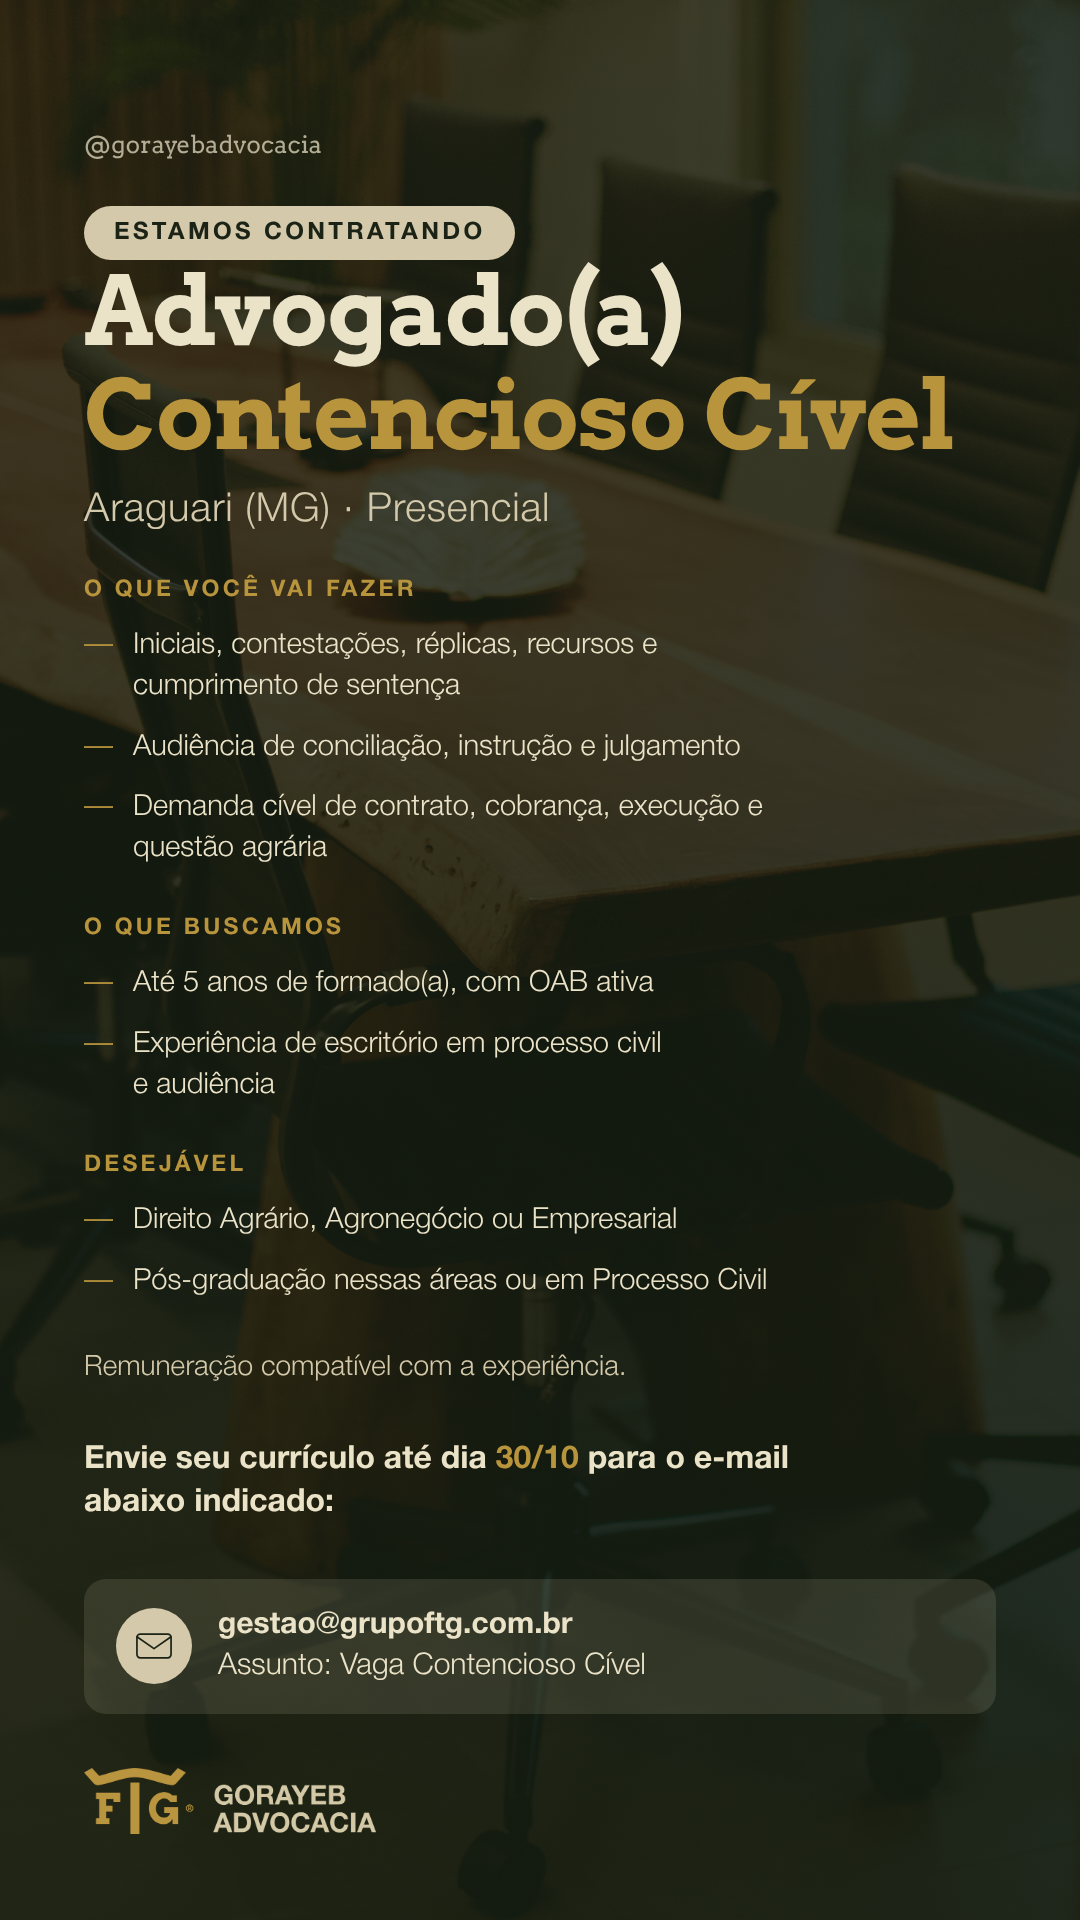
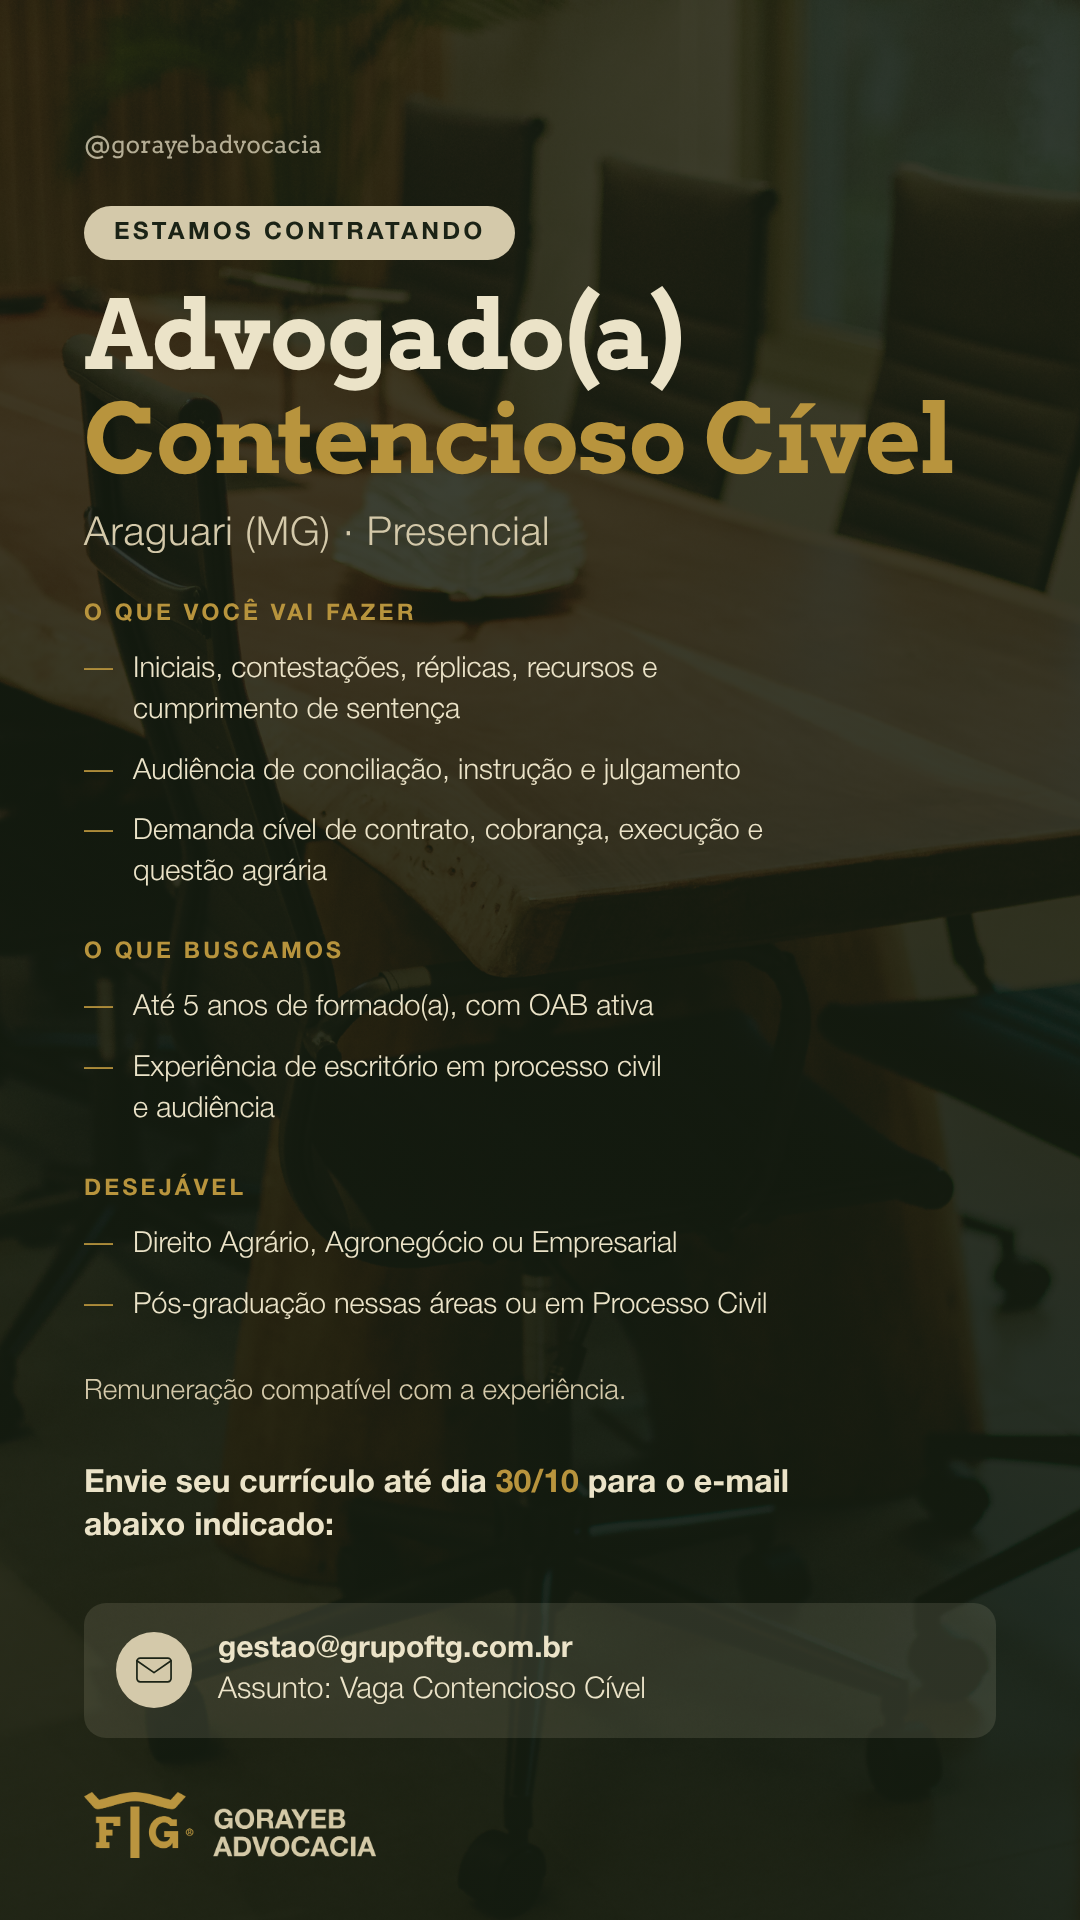
Areja a diagramação do feed da vaga
A peça estava em 99% de ocupação: cada pedido novo da cliente entrou numa
tela que já estava cheia. O feed ganhou escala própria, separada do
stories, que tem 570px a mais pro mesmo conteúdo.

- cargo de 84 para 70px
- folga entre a etiqueta e o cargo, que estavam colados
- vão entre blocos de 44 para 54px
- lista de 31 para 29px, com a medida de linha maior: a chamada do prazo
  passou a caber numa linha só

Claude-Session: https://claude.ai/code/session_01PNm9HeejNLCDTQ5J6fF2k9

Changed region(s): [[0.0611, 0.125, 0.9167, 0.9688]]

diff --git a/docs/gorayeb/template/base.css b/docs/gorayeb/template/base.css
@@ -752,3 +752,13 @@
 }
 .vaga-chamada strong { color: var(--dourado); }
 .vaga-chamada + .caixa-dado { margin-top: 22px; }
+
+/* o feed tem 570px a menos que o stories pro mesmo conteúdo, então o corpo
+   cede e os vãos aumentam: apertado não se lê */
+.slide.vaga:not(.stories) .vaga-cargo  { font-size: 70px; }
+.slide.vaga:not(.stories) .vaga-local  { font-size: 34px; }
+.slide.vaga:not(.stories) .espaco      { height: 54px; }
+.slide.vaga:not(.stories) .vaga-req    { gap: 24px; }
+.slide.vaga:not(.stories) .vaga-req li { font-size: 29px; line-height: 1.4; max-width: 25em; }
+.slide.vaga:not(.stories) .vaga-chamada { font-size: 29px; margin-top: 54px; }
+.slide.vaga:not(.stories) .caixa-dado p { font-size: 28px; }
